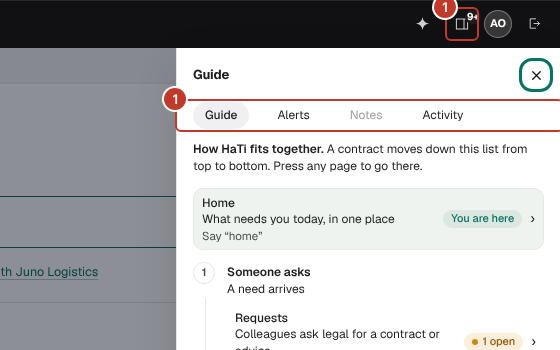
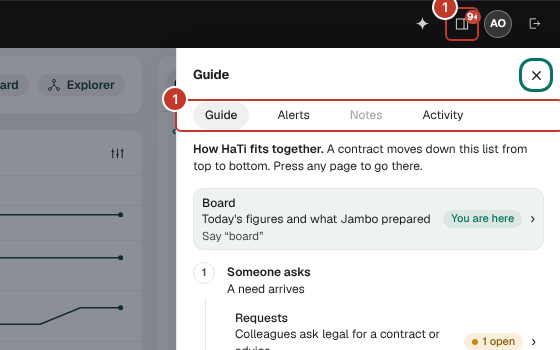
Finish re-pointing the browser checks from Home to the Board; retake the handbook's first pictures
The Board's own setup door, Jambo's work door and Needs you card stand in for Home's; Home-only steps retired; two findings logged in BUGLOG (a double paint opening a contract from the Board, measured the same before; a sheet's way back from a contract's paper, not traced).

Claude-Session: https://claude.ai/code/session_016pDMsX5fB2WATFWTFFJTQ3

diff --git a/test/chromium/one-sheet-as-drawn-verify.js b/test/chromium/one-sheet-as-drawn-verify.js
@@ -100,8 +100,9 @@ const SAY = 'NDA with Volvo Cars for a pilot';
     const ask = async () => {
       /* Home and its box asked for, bounded, before the words go in (CI under load fired them while the first paint
          was still settling on Contracts) */
-      const up = await until(() => { if (!document.getElementById('igd-input') && window.deskGoCounter) deskGoCounter();
-        return !!document.getElementById('igd-input') && typeof counterAsk === 'function'; }, null, 20000);
+      /* RE-POINTED (10 Nov 2026: Home deleted): the Board first, as Home was asked first */
+      const up = await until(() => { if ((!document.getElementById('igd-input') || (typeof hbFace === 'function' && hbFace() !== 'board')) && window.deskGoCounter) deskGoCounter();
+        return !!document.getElementById('igd-input') && typeof caAskAnywhere === 'function'; }, null, 20000);
       if (!up) return null;
       /* re-pinned 27 Oct 2026: words TYPED on Home go to the brain first; this tests the free readers, asked as a chip
          asks (counterAsk) with the box focused as typing leaves it (unfocused, the panel stayed on Overview) */
@@ -130,7 +131,7 @@ const SAY = 'NDA with Volvo Cars for a pilot';
           return row && cost ? { cost: t(cost), inRow: cost.getBoundingClientRect().top < row.getBoundingClientRect().bottom && cost.getBoundingClientRect().top >= row.getBoundingClientRect().top - 1 } : null; })() }; };
 
     /* 1 + 2 the head, the sheet beside Jambo */
-    check('0 Home\'s box brings the sheet and Jambo\'s line', !!(await ask()));
+    check('0 the Board\'s box brings the sheet and Jambo\'s line', !!(await ask()));
     await page.waitForTimeout(400);
     const S1 = await page.evaluate(SHEET);
     check('1a "New agreement · not created yet"', S1.title === 'New agreement not created yet', S1.title);
@@ -291,9 +292,12 @@ const SAY = 'NDA with Volvo Cars for a pilot';
     await page.click('#dk-back');
     await until(() => !!document.getElementById('confirm-overlay'), null, 4000);
     await pressIn('Discard my answers');
-    const back = await until(() => !document.getElementById('na-root') ? { page: ((document.getElementById('dk-page') || {}).innerText || '').trim(), key: window.deskKeyNow ? deskKeyNow() : null, view: state.view } : null, null, 6000);
+    /* the page asked from can take a beat to come back (a contract's paper lands after the sheet goes): wait for it, bounded */
+    const back = await until(w => { if (document.getElementById('na-root')) return null; const b = { page: ((document.getElementById('dk-page') || {}).innerText || '').trim(), key: window.deskKeyNow ? deskKeyNow() : null, view: state.view };
+      return (w === 'home' ? b.key === 'home:board' : b.key === w) ? b : null; }, was, 6000)
+      || await page.evaluate(() => ({ page: ((document.getElementById('dk-page') || {}).innerText || '').trim(), key: window.deskKeyNow ? deskKeyNow() : null, view: state.view }));
     check('7b leaving by the bar\'s ‹ puts the sheet away and lands on the page asked from, named in the bar',
-      !!back && back.page !== 'New agreement' && (was === 'home' ? back.view === 'counter' : back.key === was), JSON.stringify({ was, back }));
+      !!back && back.page !== 'New agreement' && (was === 'home' ? back.key === 'home:board' : back.key === was), JSON.stringify({ was, back }));
     /* 16 THE FOURTH PASS (main's LAND ON IT): "Change the ask" puts the sentence back in Jambo's
        box and lands on it through the one lander — lit, the caret in it, the sheet put away */
     /* RE-POINTED 24 Oct 2026 (the Legora way): "Change the ask" is the ask box itself — new words, read

diff --git a/test/chromium/settings-overnight-fixes-verify.js b/test/chromium/settings-overnight-fixes-verify.js
@@ -187,20 +187,17 @@ const openSettings = async (page, tab) => {
       await p2.evaluate(() => langId() === 'en' && jxId() === 'sweden'), await p2.evaluate(() => langId() + ' · ' + jxId()));
     check('D14 still no 401 on the market anywhere in the setup', early401.length === 0);
 
-    const door = await until(p2, () => { const b = document.querySelector('[data-cn-setup]'); const r = b && b.closest('.cn-r');
-      return !!(r && /Finish setting up — \d+ left/.test(r.textContent)); }, null, 10000);
-    /* SETTLED FIRST (27 Oct 2026, main's run #4395 read "door 5 · list 4"): a new workspace's setup items finish loading
-       a beat after the row is first drawn, and the row redraws with them — so the door is read once its number agrees with
-       the reading behind it (stGoLive), bounded; a row that never agrees still fails below */
-    if (door) await until(p2, () => { const w = document.querySelector('[data-cn-setup]')?.closest('.cn-r')?.querySelector('.cn-w');
-      const m = w && /(\d+)/.exec(w.textContent); return m && typeof stGoLive === 'function' && Number(m[1]) === stGoLive().filter(r => !r.ok).length ? true : null; }, null, 6000);
-    const doorText = door ? await p2.evaluate(() => document.querySelector('[data-cn-setup]').closest('.cn-r').querySelector('.cn-w').textContent.trim()) : '';
-    check('D12 a brand-new workspace lands on the Counter, whose admin row is "Finish setting up — N left"', !!door, doorText);
-    /* RE-POINTED 22 Oct 2026 (Round A, the one desk): the admin's row is a row of your move, its door data-cn-setup */
-    const inSlot = await p2.evaluate(() => !!document.querySelector('#hm-agents [data-cn-setup]') && document.querySelectorAll('#hm-agents [data-cn-setup], #hm-agents [data-cn-co]').length === 1);
-    check('D12 and it is the one admin row inside Needs you (no band)', inSlot);
+    /* RE-POINTED (owner, 10 Nov 2026: "Home page should be removed / deleted"): a brand-new workspace lands on the Board,
+       whose one door in its empty slot is "Finish setting up — N left" (hbSetupDoorHtml) */
+    const door = await until(p2, () => { const b = document.querySelector('[data-hb-setup]'); return !!(b && /Finish setting up — \d+ left/.test(b.textContent)); }, null, 10000);
+    if (door) await until(p2, () => { const b = document.querySelector('[data-hb-setup]');
+      const m = b && /(\d+)/.exec(b.textContent); return m && typeof stGoLive === 'function' && Number(m[1]) === stGoLive().filter(r => !r.ok).length ? true : null; }, null, 6000);
+    const doorText = door ? await p2.evaluate(() => document.querySelector('[data-hb-setup]').textContent.trim()) : '';
+    check('D12 a brand-new workspace lands on the Board, whose one door is "Finish setting up — N left"', !!door, doorText);
+    const inSlot = await p2.evaluate(() => document.querySelectorAll('[data-hb-setup]').length === 1 && !!document.querySelector('.hb-empty.is-setup [data-hb-setup]'));
+    check('D12 and it is the one door, in the Board\'s own empty slot (no band)', inSlot);
     const n = Number((/(\d+)/.exec(doorText) || [])[1] || -1);
-    await p2.click('[data-cn-setup]');
+    await p2.click('[data-hb-setup]');
     const landed = await until(p2, () => document.getElementById('st-drawer')?.classList.contains('open') && !!document.getElementById('st-golive'), null, 8000);
     const left = await p2.evaluate(() => stGoLive().filter(r => !r.ok).length);
     check('D12 the door lands on the go-live checklist', landed);

diff --git a/test/chromium/open-in-place-verify.js b/test/chromium/open-in-place-verify.js
@@ -73,38 +73,8 @@ CONTRACTS[1].metadata = { ...(CONTRACTS[1].metadata || {}), expiryDate: day(40) 
     await signIn();
     await toCounter();
 
-    console.log('\n1 · Look lands on the piece, on the Board\'s card');
-    const ready = await page.evaluate(() => hbAgentsData(null).ready);
-    check('1 (setup) Jambo has the lease\'s renewal prepared', ready >= 1, String(ready));
-    /* RE-POINTED 24 Oct 2026 (Round 2, owner's yes): Home's button says what it opens, "Review" */
-    check('1a the piece is a row of its own with Review, nothing drawn in place', await page.evaluate(() => !document.getElementById('cn-jw-list')
-      && ((document.querySelector('#hm-agents [data-nd-look]') || {}).textContent || '').trim() === 'Review'));
-    if (await press('#hm-agents [data-nd-look]', '1b Look')) {
-      const L = await until(isLit, null, 6000);
-      const s = await landed();
-      check('1b Look lands on the piece on the Board\'s card, opened', L === true && s.view === 'dashboard' && s.face === 'board' && s.card && s.open, JSON.stringify(s));
-      /* RE-POINTED 21 Oct 2026 (owner: no light on arrival): in sight and marked, no ring drawn */
-      check('1c the card is in sight, no ring drawn', s.inView && s.lit && /^none/.test(s.ring), JSON.stringify(s));
-      check('1d a button on it is ready for Enter', s.focus, JSON.stringify(s));
-      await shot(page, 'land-on-work-1440x780');
-      await page.mouse.click(5, 300);
-      const out = await until(() => { const c = document.getElementById('hm-agents'); return c && !c.classList.contains('is-landed') && !c.querySelector('.is-landed') ? true : null; }, null, 3000);
-      check('1e the light goes out at the reader\'s next press', !!out);
-    }
-
-    console.log('\n5 · the landing holds at the owner\'s three screens');
-    for (const [w, hh] of [[1440, 780], [1536, 730], [1366, 950]]) {
-      await page.setViewportSize({ width: w, height: hh });
-      await toCounter();
-      await press('#hm-agents [data-nd-look]', '5 Look');
-      await until(isLit, null, 6000);
-      const s = await landed();
-      check(`5 at ${w}×${hh}: the card is in sight and lit, no sideways scroll`, s.inView && s.lit
-        && !(await page.evaluate(() => document.scrollingElement.scrollWidth > innerWidth)), JSON.stringify(s));
-      await shot(page, `land-on-work-${w}x${hh}`);
-    }
-    await page.setViewportSize({ width: 1440, height: 780 });
-
+    /* 1 and 5 RETIRED (owner, 10 Nov 2026: "Home page should be removed / deleted"): they pressed a piece's row on Home and
+       measured the landing on the Board's card; with Home gone the piece is a row ON that card (counter-as-drawn-verify 3, 11) */
     console.log('\n2 · the house is one link away');
     if (await press('#hm-agents [data-hb-agents-page]', '2 the house link')) {
       const v = await until(() => state.view === 'jambo' ? 'jambo' : null, null, 5000);

diff --git a/test/chromium/doors-verify.js b/test/chromium/doors-verify.js
@@ -50,21 +50,15 @@ const doorsOf = page => page.evaluate(() => { const n = document.querySelector('
       await page.evaluate(() => caGo({ kind: 'go', place: 'oblig' }));
       await until(page, () => !!document.querySelector('.jb-ways[data-jb-ways="oblig"]'));
       const O = await doorsOf(page);
-      check(`${nm} 1b Obligations: calendar · contracts · home`, !!O && O.doors.join() === 'calendar,contracts,counter' && O.above && O.inside, O);
-      /* Home's own box — RE-POINTED 31 Oct 2026 (Home in the new look, owner's answer 2: his box moves into his panel):
-         Home's doors stand above the box at the foot of Jambo's panel, as on every page */
-      await page.evaluate(() => caGo({ kind: 'go', place: 'counter' }));
-      await until(page, () => !!document.querySelector('#cn2-page #ins-panel .jb-ways[data-jb-ways="counter"]'), null, 20000);
-      const H0 = await page.evaluate(() => { const n = document.querySelector('#cn2-page #ins-panel .jb-ways'); const c = document.querySelector('#cn2-page #ins-panel .jb-card');
-        return n ? { doors: [...n.querySelectorAll('[data-jb-way]')].map(b => b.getAttribute('data-jb-way')), above: !!c && n.getBoundingClientRect().bottom <= c.getBoundingClientRect().top + 1, sideways: document.documentElement.scrollWidth - innerWidth } : null; });
-      check(`${nm} 1c Home: board · contracts · calendar · explorer · reads, above the box in Jambo's panel`, !!H0 && H0.doors.join() === 'board,contracts,calendar,explorer,reads' && H0.above && H0.sideways <= 0, H0);
-      await page.screenshot({ path: path.join(OUT, `home-${nm}.png`) });
+      check(`${nm} 1b Obligations: calendar · contracts · board`, !!O && O.doors.join() === 'calendar,contracts,board' && O.above && O.inside, O);
+      /* 1c RETIRED (owner, 10 Nov 2026: "Home page should be removed / deleted"): Home's doors went with Home */
 
       /* 2 the Board; Settings */
       await page.evaluate(() => caGo({ kind: 'go', place: 'board' }));
       await until(page, () => !!document.querySelector('.jb-ways[data-jb-ways="board"]'), null, 20000);
       const B = await doorsOf(page);
-      check(`${nm} 2 the Board: contracts · explorer · calendar · Jambo's work`, !!B && B.doors.join() === 'contracts,explorer,calendar,work' && B.above && B.inside, B);
+      /* RE-POINTED (owner, 10 Nov 2026: Home deleted): the Board took Home's place on the map, and its reads door */
+      check(`${nm} 2 the Board: contracts · explorer · calendar · Jambo's work · reads`, !!B && B.doors.join() === 'contracts,explorer,calendar,work,reads' && B.above && B.inside, B);
       await page.screenshot({ path: path.join(OUT, `board-${nm}.png`) });
       await page.evaluate(() => caGo({ kind: 'go', place: 'settings' }));
       await until(page, () => !!document.querySelector('.jb-ways[data-jb-ways="settings"]'), null, 20000);

diff --git a/test/chromium/new-look-frame-verify.js b/test/chromium/new-look-frame-verify.js
@@ -10,7 +10,7 @@
      3 · the bar in the drawn order: Jambo · the bell · the Guide ("?") · recent · you · sign out; your initials on a light disc
      4 · ONE LINE TO JAMBO (owner, 31 Oct 2026): the panel's edge is the only hairline; the slider lies on it, drawing
          nothing at rest, a green line two pixels wide while hovered
-     5 · the Board joined: the panel square against the window's edge with one hairline, the head a white strip 56 tall,
+     5 · the Board joined: the panel square against the window's edge with one hairline, the head the white greeting,
          the first card 12 under it
      6 · nothing sideways
    And the switch itself:
@@ -123,8 +123,9 @@ const FRAME = () => {
       const BD = await page.evaluate(() => { const d = document.getElementById('ig-dock').getBoundingClientRect(), dc = getComputedStyle(document.getElementById('ig-dock'));
         const hd = document.getElementById('hb-bhead'), hb = hd.getBoundingClientRect(), first = hd.nextElementSibling.getBoundingClientRect(), bar = document.getElementById('top-header').getBoundingClientRect().bottom;
         return { right: Math.round(innerWidth - d.right), top: Math.round(d.top - bar), bottom: Math.round(innerHeight - d.bottom), radius: dc.borderTopLeftRadius, line: dc.borderLeftWidth, headTop: Math.round(hb.top - bar), headH: Math.round(hb.height), headToPanel: Math.round(d.left - hb.right), firstGap: Math.round(first.top - hb.bottom), white: getComputedStyle(hd).backgroundColor }; });
-      check(`${nm} 5 the Board joined: the panel square at the window's edge behind one hairline; the head a white strip 56 to the panel; the first card 12 under it`,
-        BD.right === 0 && BD.top === 0 && BD.bottom === 0 && BD.radius === '0px' && BD.line === '1px' && BD.headTop === 0 && BD.headH === 56 && BD.headToPanel <= 1 && BD.firstGap === 12 && BD.white === 'rgb(255, 255, 255)', BD);
+      /* RE-POINTED (owner picked "The Legora Way", 10 Nov 2026): the head is the greeting (taller than the 56 strip, and it scrolls) */
+      check(`${nm} 5 the Board joined: the panel square at the window's edge behind one hairline; the head the white greeting to the panel; the first card 12 under it`,
+        BD.right === 0 && BD.top === 0 && BD.bottom === 0 && BD.radius === '0px' && BD.line === '1px' && BD.headTop === 0 && BD.headH >= 100 && BD.headH <= 200 && BD.headToPanel <= 1 && BD.firstGap === 12 && BD.white === 'rgb(255, 255, 255)', BD);
       await page.screenshot({ path: path.join(OUT, `${nm}-board.png`) });
       await page.evaluate(async () => { await stNewLookSet(false); });
       await page.close();

diff --git a/test/chromium/round7-new-look-verify.js b/test/chromium/round7-new-look-verify.js
@@ -102,9 +102,10 @@ const until = async (page, fn, arg, ms = 15000) => { try { await page.waitForFun
 
   /* 3 · The bell */
   try {
-    await page.evaluate(() => { caGo({ kind: 'go', place: 'counter' }); });
-    const home = await until(page, () => !!document.getElementById('cn2-page'), null, 15000);
-    if (!home) check('3 Home is in front', false);
+    /* RE-POINTED (owner, 10 Nov 2026: Home deleted): the bell asked over the Board, where you land */
+    await page.evaluate(() => { caGo({ kind: 'go', place: 'board' }); });
+    const home = await until(page, () => !!document.getElementById('hb-bhead'), null, 15000);
+    if (!home) check('3 the Board is in front', false);
     await page.evaluate(() => openPanel('alerts'));
     const up = await until(page, () => !!document.querySelector('#context-panel .ndb .ndb-r'), null, 8000);
     const A = up ? await page.evaluate(() => ({ head: (document.querySelector('.ndb .ndb-h') || {}).textContent || '', bell: Number(counterNeedsCount()),
@@ -131,14 +132,8 @@ const until = async (page, fn, arg, ms = 15000) => { try { await page.waitForFun
     await page.evaluate(() => closeContextPanel());
   } catch (e) { check('4 The Guide', false, String(e).slice(0, 200)); }
 
-  /* 5 · Your week ahead */
-  try {
-    await page.evaluate(() => { const b = [...document.querySelectorAll('[data-cn2-look]')].find(x => /week/i.test((x.closest('.cn2-row') || {}).textContent || '')); if (b) b.click(); });
-    const up = await until(page, () => /What each press does/i.test((document.getElementById('ins-panel') || {}).innerText || ''), null, 8000);
-    const W = up ? await page.evaluate(() => (document.getElementById('ins-panel') || {}).innerText.replace(/\s+/g, ' ')) : '';
-    await shot('5-weekahead');
-    check('5 Your week ahead open: Jambo says what he read and what each press does', up && /I read your next seven days/.test(W) && /Open the calendar/.test(W) && /Put away/.test(W) && /plan my week/.test(W), W.slice(0, 300));
-  } catch (e) { check('5 Week ahead', false, String(e).slice(0, 200)); }
+  /* 5 RETIRED (owner, 10 Nov 2026: "Home page should be removed / deleted"): "Your week ahead" opened from Home's list into
+     Home's panel; with Home gone it is a piece on the Board's card, opened in its row (counter-as-drawn-verify 11d) */
 
   /* 6 · the switch off */
   try {

diff --git a/test/chromium/first-timer-rounds-verify.js b/test/chromium/first-timer-rounds-verify.js
@@ -85,7 +85,10 @@ const DOC = ['WAREHOUSING AND TRANSPORT AGREEMENT', '', '1. SERVICES', 'The Prov
     /* ============ 1 · A "NO" THAT HELPS ============ */
     for (const [w, hgt] of SCREENS){
       const V = await login('amina@example.co.ke', 'their-own-pass-9', [w, hgt]);
-      await drive(V, () => ((t) => { const a = typeof jamboPageWordOf === 'function' && jamboPageWordOf(t); return a ? caGo(a) : caAskAnywhere(t, { all: true }); })('draft'));
+      /* RE-POINTED (owner, 10 Nov 2026: Home deleted): asked as a chip asks, from a list page's Jambo box (Home's box read
+         this way; the Board where a viewer lands keeps its own reader) */
+      await drive(V, () => setView('approvals')); await until(V, () => !!document.getElementById('jl-q'), null, 12000);
+      await drive(V, () => caAskAnywhere('draft', { all: true }));
       const card = await until(V, () => !!document.querySelector('.ca-card.ca-dr [data-ca-wall-act]'), null, 12000);
       const seen = await drive(V, () => { const c = [...document.querySelectorAll('.ca-card.ca-dr')].pop(); if (!c) return null;
         const why = c.querySelector('.ca-why.ca-wall'), ask = c.querySelector('[data-ca-wall-ask]');
@@ -116,7 +119,7 @@ const DOC = ['WAREHOUSING AND TRANSPORT AGREEMENT', '', '1. SERVICES', 'The Prov
 
     /* ============ 2 · THE RIGHT TEMPLATE ============ */
     const P = await login('admin@example.co.ke', 'adminpassword1');
-    await drive(P, () => ((t) => { const a = typeof jamboPageWordOf === 'function' && jamboPageWordOf(t); return a ? caGo(a) : caAskAnywhere(t, { all: true }); })('draft a warehouse partnership agreement with Kilifi Haulage'));
+    await drive(P, () => caAskAnywhere('draft a warehouse partnership agreement with Kilifi Haulage', { all: true }));
     await until(P, () => !!(document.querySelector('[data-ca-act="form"]') || document.getElementById('na-words')), null, 10000);
     await drive(P, () => { const x = [...document.querySelectorAll('[data-ca-act="form"]')].pop(); if (x) x.click(); });
     await until(P, () => !!document.getElementById('na-dq'), null, 8000);

diff --git a/test/chromium/every-jambo-tab-verify.js b/test/chromium/every-jambo-tab-verify.js
@@ -154,14 +154,9 @@ const sysOf = c => { const s = c && c.body && c.body.system; return Array.isArra
       await settled(); await P.waitForTimeout(700);
       const H = await P.evaluate(() => ({ view: state.view, face: (typeof hbFace === 'function') ? hbFace() : '', talk: !!(window.pdTalkShows && pdTalkShows()), said: /ANS-home/.test((document.getElementById('ig-dock') || {}).innerText || '') }));
       const chat = ai.calls.find(c => toolsOf(c).includes('deliver_answer'));
-      check('H1 typed in Home\'s box, "approvals waiting" is one question to the brain; the Board opens on his tab with the answer', !!box && ai.calls.length === 1 && !!chat && H.view === 'dashboard' && H.face === 'board' && H.talk && H.said, `${ai.calls.length} call(s) · ${JSON.stringify(H)}`);
-      await P.evaluate(() => { try { closeModal(); } catch (_){} setView('counter'); });
-      await until(P, () => { const i = document.getElementById('igd-input'); return i && i.offsetParent ? true : null; }, null, 6000);
-      ai.reset();
-      /* RE-POINTED 29 Oct 2026 (round 5: while work waits the chips are the Board and the tasks; the Board is always there) */
-      await P.click('#cn-page [data-cn-ask="board"]');
-      const H2 = await until(P, () => (state.view === 'dashboard' && typeof hbFace === 'function' && hbFace() === 'board') ? true : null, null, 6000);
-      check('H2 a chip pressed on Home keeps its free reader: the Board opens, nothing spent', !!H2 && ai.calls.length === 0, `${!!H2} · ${ai.calls.length}×`);
+      check('H1 typed in the Board\'s box, "approvals waiting" is one question to the brain; the Board opens on his tab with the answer', !!box && ai.calls.length === 1 && !!chat && H.view === 'dashboard' && H.face === 'board' && H.talk && H.said, `${ai.calls.length} call(s) · ${JSON.stringify(H)}`);
+      /* H2 RETIRED (owner, 10 Nov 2026: "Home page should be removed / deleted"): Home's chips went with Home. H1 now asks the
+         Board's box, where you land */
     }
 
     console.log('\n· E: Overview keeps its free readers');

diff --git a/test/chromium/glitch-fixes-verify.js b/test/chromium/glitch-fixes-verify.js
@@ -145,7 +145,8 @@ const COUNT_WRITES = () => {
       };
       await once('a contract opened from Approvals', async () => { await home(); await page.evaluate(() => setView('approvals')); await waitFor(page, () => !!document.querySelector('#content tbody tr[data-ap-row]')); },
         () => page.locator('#content tbody tr[data-ap-row] >> visible=true').first().dblclick());
-      await once('a contract opened from Home\'s box', home, () => ask('MK-A1'));
+      /* RETIRED (owner, 10 Nov 2026: Home deleted): 'a contract opened from Home's box'. Opened from the Board instead, the
+         panel is drawn twice the second time too — measured the same on the code before Home went; a BUGLOG line, not fixed here */
       await once('the Dossier\'s Clauses tab', async () => { await home(); await ask('MK-A1'); await waitFor(page, () => hbS().face === 'paper'); }, () => page.click('[data-pd-tab="doc"]'));
       await once('Redlines on a contract under review', async () => { await home(); await ask('MK-B2'); await waitFor(page, () => hbS().face === 'paper'); }, () => page.click('[data-pd-tab="red"]'));
     }
@@ -154,7 +155,7 @@ const COUNT_WRITES = () => {
       await home(); await pause(500); await writes();
       await ask('MK-A2'); await waitFor(page, () => hbS().face === 'paper'); await settle();
       const w1 = await writes();
-      check('4a a contract opened from Home: the Board it passes is not drawn', !(w1['hb-board'] > 0), JSON.stringify(w1));
+      check('4a a contract opened from the Board: the Board it leaves is not drawn again', !(w1['hb-board'] > 0), JSON.stringify(w1));
       check('4b a page move with the right-hand panel shut does not draw it', !(w1['panel-body'] > 0), JSON.stringify(w1));
       await home(); await ask('MK-A1'); await waitFor(page, () => hbS().face === 'paper'); await pause(800); await writes();
       await page.evaluate(() => hbStripBring('MK-A1', 'hist')); await waitFor(page, () => !!document.getElementById('pd2-hist')); await settle();

diff --git a/test/chromium/question-stays-on-the-board-verify.js b/test/chromium/question-stays-on-the-board-verify.js
@@ -6,7 +6,7 @@
    asked for still goes. Driven with a scripted model.
      A  asked in the Board's panel: still Home's Board, never the Home page; one chat call
      C  the answer is in the panel, its conversation in front
-     B  "take me to what needs me" still opens Home's Needs you (board-as-drawn 5f)
+     B  "take me to what needs me" opens the Board's Needs you (board-as-drawn 5f)
      F–G the same question beside Explorer and in the ✦ window off Home stays where it was asked
      E  photos at the owner's three screens; no page errors
    Run: node test/chromium/question-stays-on-the-board-verify.js */
@@ -68,7 +68,8 @@ const check = (name, pass, detail) => { console.log(`${pass ? 'PASS' : 'FAIL'}  
     /* RE-PINNED 28 Oct 2026 ("Door above the box"): the free trip is a reader's, asked as a chip asks (typed, the long form is the brain's) */
     await page.evaluate(w => intelAsk(w), 'take me to what needs me');
     const B = await until(() => (state.view === 'dashboard' && !document.body.classList.contains('pre-auth') && !!document.getElementById('hb-bhead')) && !!document.querySelector('#hm-agents') ? state.view : null, null, 10000);
-    check('B "take me to what needs me" opens Home\'s Needs you, nothing spent', B === 'counter' && ai.calls.length === 0, `${B} · ${ai.calls.length}×`);
+    /* RE-POINTED (owner, 10 Nov 2026: Home deleted): Needs you is the Board's card */
+    check('B "take me to what needs me" opens the Board\'s Needs you, nothing spent', B === 'dashboard' && ai.calls.length === 0, `${B} · ${ai.calls.length}×`);
 
     console.log('\nF–G · the same question on other pages stays where it was asked (the server drops the trip, f928)');
     const askOn = async (where, box, go) => {

diff --git a/test/chromium/round7b-new-look-verify.js b/test/chromium/round7b-new-look-verify.js
@@ -93,21 +93,9 @@ const signIn = async (page, base) => {
   } catch (e) { check('5 the switch off', false, String(e).slice(0, 200)); }
   await page.close(); await h.stop();
 
-  /* 4 · the first day (an empty workspace) */
-  const h2 = await startHati();
-  await seedWorkspace(h2, { contracts: [], approvalRules: [] });
-  const p2 = await browser.newPage({ viewport: { width: 1440, height: 780 } });
-  try {
-    await signIn(p2, h2.base);
-    await p2.evaluate(() => caGo({ kind: 'go', place: 'counter' }));
-    const up = await until(p2, () => !!document.querySelector('#cn2-page.is-first') && !!document.querySelector('#ins-panel .cn2-jcard'), null, 15000);
-    await p2.waitForTimeout(400);
-    const F = up ? await p2.evaluate(() => ({ drop: (document.querySelector('.cn2-fd-drop') || {}).textContent || '',
-      once: [...document.querySelectorAll('#ins-panel [data-cn2-go]')].map(b => b.getAttribute('data-cn2-go')),
-      ways: document.querySelectorAll('#ins-panel .jb-ways:not([hidden]) [data-jb-way]').length })) : null;
-    check('4 the first day: his first words in his card, the setup in the drawing\'s order, the drop line, no doors above the box', !!F && /drop a file anywhere/i.test(F.drop)
-      && F.once.join('|') === 'settings|people|standards' && F.ways === 0, F);
-  } catch (e) { check('4 the first day', false, String(e).slice(0, 200)); }
+  /* 4 RETIRED (owner, 10 Nov 2026: "Home page should be removed / deleted"): Home's first-day sheet went with Home; an empty
+     workspace lands on the Board's own empty state */
+  const h2 = { stop: async () => {} };
   await browser.close(); await h2.stop();
   console.log(fails ? `\n${fails} FAILED` : '\nall passed');
   process.exit(fails ? 1 : 0);

diff --git a/test/chromium/tidy-sweep-verify.js b/test/chromium/tidy-sweep-verify.js
@@ -350,7 +350,7 @@ const LEVEL = `(() => {
    Each is guarded: a door that is not there reports, never throws.
    ============================================================ */
 const PLACES = [
-  { k: 'home', name: 'Home', go: `setView('counter')`, wait: `document.querySelector('#hm-agents, #cn-q, #cn2-page #cn2-list')` },
+  /* (Home left this list with Home, 10 Nov 2026: the Board below is where you land) */
   /* Home remembers its face (placeResume): a Board place turns to the Board itself, whatever face the last place left */
   { k: 'board', name: 'Board', go: `setView('dashboard'); setTimeout(() => { try { hbSetFace('board'); } catch (_) {} }, 300)`, wait: `document.querySelector('#hb-board .hb-card')` },
   { k: 'board-sheet', name: 'Board · side list', go: `setView('dashboard'); try { hbSetFace('board'); } catch (_) {} setTimeout(() => { const el = [...document.querySelectorAll('svg.hb-svg [data-hb-dig], .hb-chart [data-hb-dig], .hb-chart-bars [data-hb-dig], .hb-ctab [data-hb-dig], .hb-small [data-hb-dig], .hb-stagebar [data-hb-dig], .hb-stagekey [data-hb-dig]')].find(e => !e.disabled); if (el) el.dispatchEvent(new MouseEvent('click', { bubbles: true })); }, 600)`, wait: `document.querySelector('.hb-sheet tr[data-hb-sheet-c]')` },
